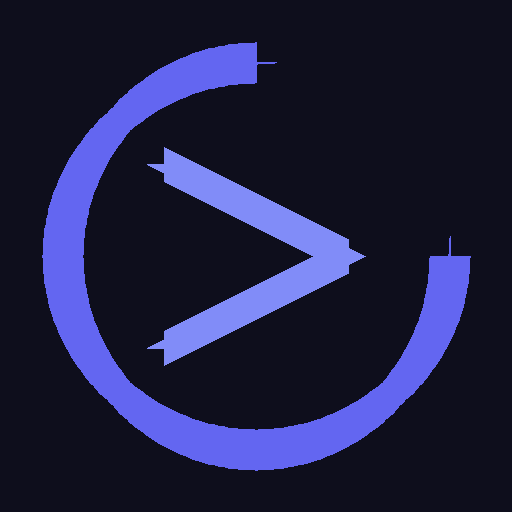
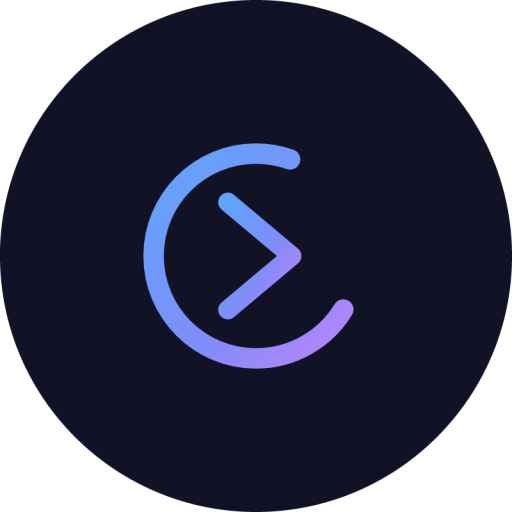
fix: atualiza ícone PWA com design correto
- Substitui ícones gerados por GD pelo ícone oficial (800x800 → 512x512 + 192x192)
- Adiciona icon.png (800x800 original) ao public/
- Atualiza todas as views: apple-touch-icon e rel=icon apontam para icon-192.png

diff --git a/resources/views/welcome.blade.php b/resources/views/welcome.blade.php
@@ -9,9 +9,9 @@
     <link href="https://fonts.googleapis.com/css2?family=Inter:wght@300;400;500;600;700;800;900&family=Sora:wght@300;400;600;700;800;900&display=swap" rel="stylesheet">
     <!-- PWA Manifest -->
     <link rel="manifest" href="/manifest.json">
-    <link rel="icon" type="image/svg+xml" href="/icon.svg">
+    <link rel="icon" type="image/png" href="/icon-192.png">
     <meta name="theme-color" content="#6366f1">
-    <link rel="apple-touch-icon" href="/icon.svg">
+    <link rel="apple-touch-icon" href="/icon-192.png">
     <meta name="mobile-web-app-capable" content="yes">
     <meta name="apple-mobile-web-app-capable" content="yes">
     <meta name="apple-mobile-web-app-status-bar-style" content="black-translucent">

diff --git a/resources/views/subscriptions/plans.blade.php b/resources/views/subscriptions/plans.blade.php
@@ -5,7 +5,7 @@
     <meta name="viewport" content="width=device-width, initial-scale=1.0">
     <title>Preços — Cardifys</title>
     <meta name="description" content="Planos simples e transparentes para profissionais e empresas. Começa grátis, cresce connosco.">
-    <link rel="icon" type="image/svg+xml" href="/icon.svg">
+    <link rel="icon" type="image/png" href="/icon-192.png">
     <link rel="preconnect" href="https://fonts.googleapis.com">
     <link rel="preconnect" href="https://fonts.gstatic.com" crossorigin>
     <link href="https://fonts.googleapis.com/css2?family=Inter:wght@300;400;500;600;700;800;900&family=Sora:wght@300;400;600;700;800;900&display=swap" rel="stylesheet">

diff --git a/resources/views/business-cards/public.blade.php b/resources/views/business-cards/public.blade.php
@@ -5,7 +5,7 @@
     <meta name="viewport" content="width=device-width, initial-scale=1.0">
     <title>{{ $businessCard->full_name }} - Cardify</title>
     <meta name="description" content="{{ $businessCard->position ? $businessCard->position . ' - ' : '' }}{{ $businessCard->company ? $businessCard->company->name : '' }}">
-    <link rel="icon" type="image/svg+xml" href="/icon.svg">
+    <link rel="icon" type="image/png" href="/icon-192.png">
     <link rel="icon" type="image/x-icon" href="/favicon.ico">
     <meta name="theme-color" content="#6366f1">
     <link rel="preconnect" href="https://fonts.googleapis.com">

diff --git a/resources/views/layouts/dashboard.blade.php b/resources/views/layouts/dashboard.blade.php
@@ -4,9 +4,9 @@
     <meta charset="UTF-8">
     <meta name="viewport" content="width=device-width, initial-scale=1.0">
     <title>@yield('title', 'Dashboard') - Cardify</title>
-    <link rel="icon" type="image/svg+xml" href="/icon.svg">
+    <link rel="icon" type="image/png" href="/icon-192.png">
     <link rel="icon" type="image/x-icon" href="/favicon.ico">
-    <link rel="apple-touch-icon" href="/icon.svg">
+    <link rel="apple-touch-icon" href="/icon-192.png">
     <link rel="manifest" href="/manifest.json">
     <meta name="theme-color" content="#6366f1">
     <meta name="mobile-web-app-capable" content="yes">

diff --git a/resources/views/subscriptions/seats.blade.php b/resources/views/subscriptions/seats.blade.php
@@ -4,9 +4,9 @@
     <meta charset="UTF-8">
     <meta name="viewport" content="width=device-width, initial-scale=1.0">
     <title>Gestão de Seats — Cardify</title>
-    <link rel="icon" type="image/svg+xml" href="/icon.svg">
+    <link rel="icon" type="image/png" href="/icon-192.png">
     <link rel="icon" type="image/x-icon" href="/favicon.ico">
-    <link rel="apple-touch-icon" href="/icon.svg">
+    <link rel="apple-touch-icon" href="/icon-192.png">
     <link rel="manifest" href="/manifest.json">
     <meta name="theme-color" content="#6366f1">
     <meta name="mobile-web-app-capable" content="yes">

diff --git a/resources/views/business-cards/save-contact.blade.php b/resources/views/business-cards/save-contact.blade.php
@@ -4,7 +4,7 @@
     <meta charset="UTF-8">
     <meta name="viewport" content="width=device-width, initial-scale=1.0">
     <title>Guardar Contacto - {{ $businessCard->full_name }}</title>
-    <link rel="icon" type="image/svg+xml" href="/icon.svg">
+    <link rel="icon" type="image/png" href="/icon-192.png">
     <link rel="icon" type="image/x-icon" href="/favicon.ico">
     <meta name="theme-color" content="#6366f1">
     <link rel="preconnect" href="https://fonts.googleapis.com">

diff --git a/resources/views/auth/forgot-password.blade.php b/resources/views/auth/forgot-password.blade.php
@@ -4,7 +4,7 @@
     <meta charset="UTF-8">
     <meta name="viewport" content="width=device-width, initial-scale=1.0">
     <title>Recuperar Palavra-passe - DBsCard</title>
-    <link rel="icon" type="image/svg+xml" href="/icon.svg">
+    <link rel="icon" type="image/png" href="/icon-192.png">
     <link rel="icon" type="image/x-icon" href="/favicon.ico">
     <meta name="theme-color" content="#6366f1">
     <link rel="preconnect" href="https://fonts.googleapis.com">

diff --git a/resources/views/auth/verify-email.blade.php b/resources/views/auth/verify-email.blade.php
@@ -4,7 +4,7 @@
     <meta charset="UTF-8">
     <meta name="viewport" content="width=device-width, initial-scale=1.0">
     <title>Verifica o teu Email - Cardify</title>
-    <link rel="icon" type="image/svg+xml" href="/icon.svg">
+    <link rel="icon" type="image/png" href="/icon-192.png">
     <link rel="icon" type="image/x-icon" href="/favicon.ico">
     <meta name="theme-color" content="#6366f1">
     <link rel="preconnect" href="https://fonts.googleapis.com">

diff --git a/resources/views/auth/reset-password.blade.php b/resources/views/auth/reset-password.blade.php
@@ -4,7 +4,7 @@
     <meta charset="UTF-8">
     <meta name="viewport" content="width=device-width, initial-scale=1.0">
     <title>Nova Password - Cardify</title>
-    <link rel="icon" type="image/svg+xml" href="/icon.svg">
+    <link rel="icon" type="image/png" href="/icon-192.png">
     <link rel="icon" type="image/x-icon" href="/favicon.ico">
     <meta name="theme-color" content="#6366f1">
     <link rel="preconnect" href="https://fonts.googleapis.com">

diff --git a/resources/views/auth/register.blade.php b/resources/views/auth/register.blade.php
@@ -4,7 +4,7 @@
     <meta charset="UTF-8">
     <meta name="viewport" content="width=device-width, initial-scale=1.0">
     <title>Criar Conta - Cardify</title>
-    <link rel="icon" type="image/svg+xml" href="/icon.svg">
+    <link rel="icon" type="image/png" href="/icon-192.png">
     <link rel="icon" type="image/x-icon" href="/favicon.ico">
     <meta name="theme-color" content="#6366f1">
     <link rel="preconnect" href="https://fonts.googleapis.com">

diff --git a/resources/views/auth/login.blade.php b/resources/views/auth/login.blade.php
@@ -4,7 +4,7 @@
     <meta charset="UTF-8">
     <meta name="viewport" content="width=device-width, initial-scale=1.0">
     <title>Entrar - Cardify</title>
-    <link rel="icon" type="image/svg+xml" href="/icon.svg">
+    <link rel="icon" type="image/png" href="/icon-192.png">
     <link rel="icon" type="image/x-icon" href="/favicon.ico">
     <meta name="theme-color" content="#6366f1">
     <link rel="preconnect" href="https://fonts.googleapis.com">

diff --git a/resources/views/layouts/legal.blade.php b/resources/views/layouts/legal.blade.php
@@ -4,7 +4,7 @@
     <meta charset="UTF-8">
     <meta name="viewport" content="width=device-width, initial-scale=1.0">
     <title>@yield('title', 'Legal') - Cardifys</title>
-    <link rel="icon" type="image/svg+xml" href="/icon.svg">
+    <link rel="icon" type="image/png" href="/icon-192.png">
     <link href="https://fonts.googleapis.com/css2?family=Inter:wght@400;600;700&display=swap" rel="stylesheet">
     <style>
         body {
